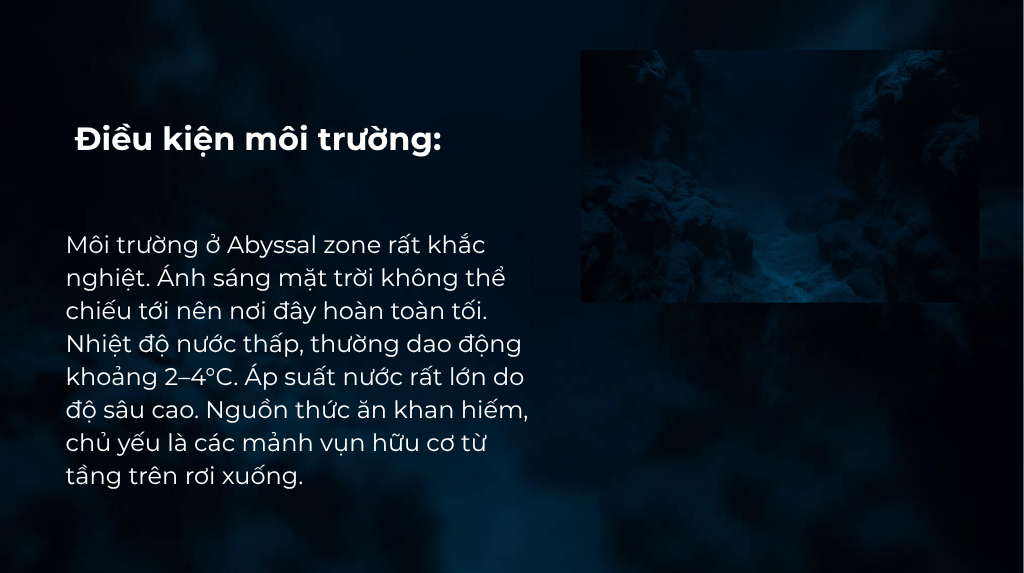
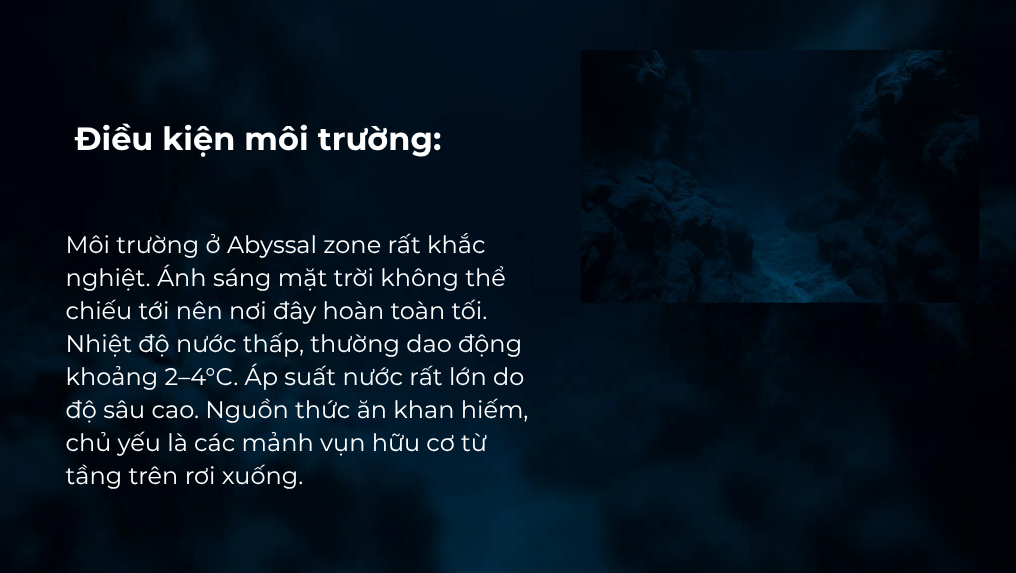
1

diff --git a/css/abyssal.css b/css/abyssal.css
@@ -283,7 +283,77 @@
 #fish-modal.active {
     display: block !important;
 }
+/* ======================================================= */
+/* --- CSS CHO PHẦN 1: CUỘN NGANG (BO GÓC MẠNH, FULL MÀN) --- */
+/* ======================================================= */
 
+/* 1. Đảm bảo phần section chính chiếm full chiều cao màn hình */
+#abyssal-info-scroll {
+    width: 100%;
+    height: 100vh; /* Full chiều cao màn hình */
+    overflow: hidden; /* Giấu thanh cuộn mặc định của trình duyệt */
+    position: relative;
+}
+
+/* 2. Thiết lập wrapper chứa các ảnh xếp hàng ngang */
+.info-horizontal-wrapper {
+    display: flex;
+    height: 100%;
+    /* Thêm width cho tổng 3 ảnh (hoặc dùng JS để điều khiển) */
+    /* width: 300vw; (Nếu cuộn bằng CSS) */
+}
+
+/* 3. Thiết lập khung chứa cho MỖI slide (ảnh) */
+.info-slide {
+    flex: 0 0 100vw; /* Mỗi slide chiếm full chiều rộng màn hình */
+    width: 100vw;
+    height: 100%;
+    display: flex;
+    justify-content: center;
+    align-items: center;
+    
+    /* --- CÁCH 1: BO GÓC TRÊN KHUNG CHỨA --- */
+    /* border-radius: 80px; /* Tăng giảm số này để bo mạnh/nhẹ */
+    /* overflow: hidden; /* Cắt bất kỳ thứ gì tràn ra khỏi góc bo */
+}
+
+/* 4. CSS CHÍNH CHO ẢNH - BO GÓC MẠNH VÀ FULL MÀN */
+.info-slide img {
+    /* Đảm bảo ảnh lấp đầy khung chứa */
+    width: 100%;
+    height: 100%;
+    object-fit: cover; /* Giữ tỷ lệ ảnh, lấp đầy khung, có thể cắt bớt nếu cần */
+    
+    /* --- CÁCH 2 (Dễ kiểm soát hơn): BO GÓC MẠNH TRỰC TIẾP TRÊN ẢNH --- */
+    /* border-radius: 80px; /* Thay thế hoặc dùng kết hợp với cách 1 */
+    
+    display: block;
+}
+
+/* --- VÍ DỤ 2: TẠO HIỆU ỨNG THẺ (CARD) BO GÓC ĐẸP HƠN --- */
+/* (Đây là cách phổ biến để tạo cảm giác "bo góc" trên "full màn") */
+.info-slide {
+    flex: 0 0 100vw;
+    width: 100vw;
+    height: 100%;
+    display: flex;
+    justify-content: center;
+    align-items: center;
+    
+    /* Thêm một chút khoảng cách (padding) để góc bo lộ rõ */
+    padding: 30px; /* Khoảng cách xung quanh ảnh */
+    box-sizing: border-box; /* Đảm bảo padding không làm tăng kích thước slide */
+}
+
+.info-slide img {
+    width: 100%;
+    height: 100%;
+    object-fit: cover; /* Lấp đầy khung sau khi đã trừ padding */
+    
+    /* --- BO GÓC MẠNH --- */
+    border-radius: 80px; /* Số lớn để bo cực mạnh (ví dụ 80px-120px) */
+    
+}
 .modal-content {
     position: relative;
     margin: 2% auto;

diff --git a/css/twilight.css b/css/twilight.css
@@ -190,6 +190,15 @@
     box-shadow: none;
 }
 
+/* ================================
+   HIỆU ỨNG CÁ LƠ LỬNG (Đã đưa ra ngoài)
+   ================================ */
+@keyframes floatingFishSafe {
+    0% { top: 0px; }
+    50% { top: -15px; }
+    100% { top: 0px; }
+}
+
 #twilight-wrapper .tw-fish-img {
     width: 100%;
     height: auto;
@@ -198,35 +207,54 @@
     margin-bottom: 20px;
     filter: drop-shadow(0 15px 20px rgba(0,0,0,0.6));
     transition: transform 0.4s cubic-bezier(0.175, 0.885, 0.32, 1.275), filter 0.4s ease;
+    
+    position: relative; /* Cần thiết để 'top' hoạt động */
+    animation: floatingFishSafe 4s ease-in-out infinite; 
+}
+
+/* Nhịp độ lệch nhau cho tự nhiên */
+#twilight-wrapper .tw-fish-card:nth-child(1) .tw-fish-img {
+    animation-delay: 0s;
+    animation-duration: 5s;
+}
+
+#twilight-wrapper .tw-fish-card:nth-child(2) .tw-fish-img {
+    animation-delay: -1.5s;
+    animation-duration: 3.5s;
+}
+
+#twilight-wrapper .tw-fish-card:nth-child(3) .tw-fish-img {
+    animation-delay: -3s;
+    animation-duration: 4.2s;
 }
 
 /* Riêng cá nhà táng to hơn */
 #twilight-wrapper .tw-fish-card:nth-child(1) .tw-fish-img {
-    max-width: 550px;
+    max-width: 750px;
 }
 
 #twilight-wrapper .tw-fish-name {
-    font-size: 1.4rem; /* Đã thu nhỏ lại */
+    font-size: 1.4rem;
     color: #00bfff;
     margin-bottom: 10px;
     transition: color 0.3s ease, text-shadow 0.3s ease;
 }
 
 #twilight-wrapper .tw-fish-card p {
-    display: none; /* Ẩn ở ngoài lưới */
+    display: none;
 }
 
 /* Hover Effect */
 #twilight-wrapper .tw-fish-card:hover .tw-fish-img {
     transform: translateY(-20px) scale(1.05);
     filter: drop-shadow(0 25px 30px rgba(0, 191, 255, 0.5));
+    animation-play-state: paused; /* Dừng lơ lửng khi chuột chĩa vào */
 }
 
 #twilight-wrapper .tw-fish-card:hover .tw-fish-name {
     color: #ffffff;
     text-shadow: 0 0 15px rgba(0, 191, 255, 0.8);
 }
-
 /* ================================
    2. GIAO DIỆN CHI TIẾT
    ================================ */
